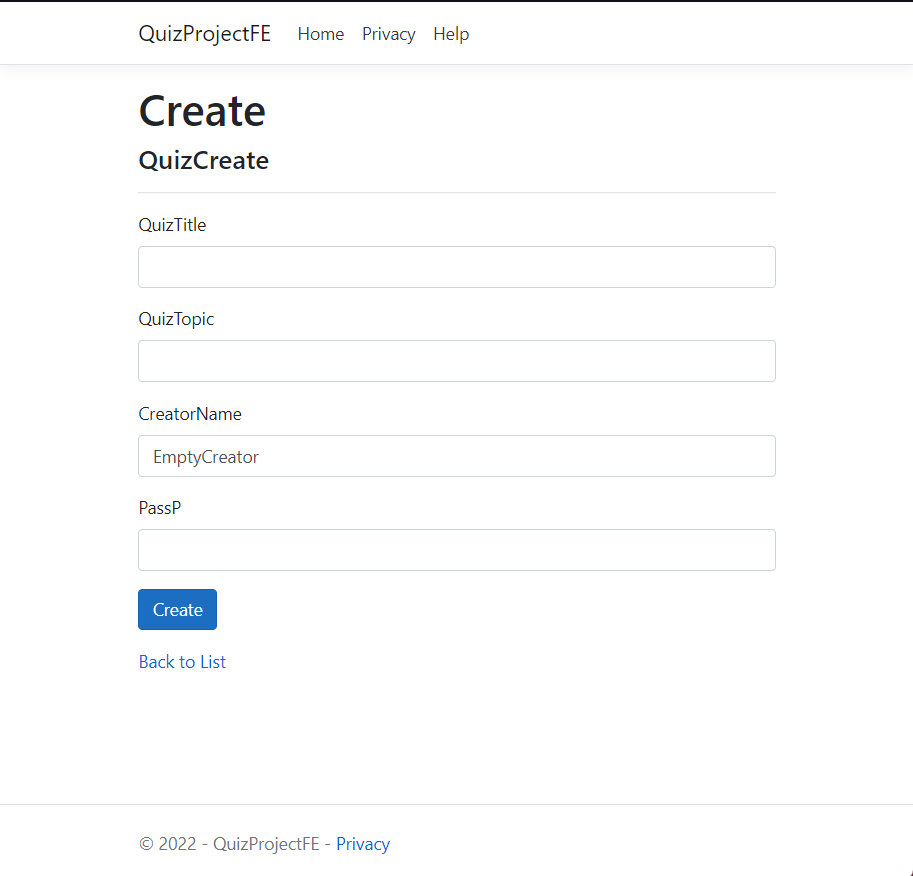
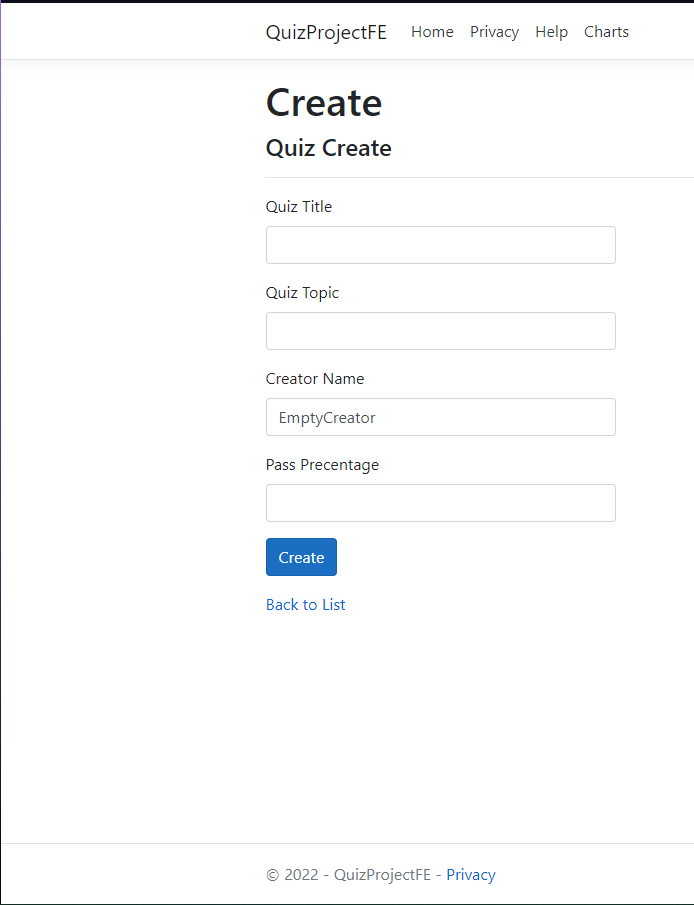
Final Touch ups

diff --git a/QuizProjectFE/Services/API_Request.cs b/QuizProjectFE/Services/API_Request.cs
@@ -8,7 +8,14 @@ namespace QuizProjectFE.Services
 {
     public class API_Request<T> : IApiRequest<T>
     {
-        //http client
+
+        ///<summary>
+        ///http client & contexy set up
+        ///</summary>
+        ///<param name="_client">Http client</param>
+        ///<param name="_context">Http context</param>
+        ///<returns>Gives client authorization </returns>
+        ///<created>Jordan, 20/06/22</created>
         private readonly HttpClient _client;
         private readonly HttpContext _context;
         public API_Request(IHttpClientFactory httpClientFactory, IHttpContextAccessor accessor)
@@ -21,7 +28,11 @@ namespace QuizProjectFE.Services
                 _client.DefaultRequestHeaders.Authorization = new AuthenticationHeaderValue("Bearer", _context.Session.GetString("Token"));
             }
         }
-        //get all
+        /// <summary>
+        /// Gets all of given controller name for example Quiz
+        /// </summary>
+        /// <param name="controllername"></param>
+        /// <returns>Returns all of (controller name) </returns>
         public List<T> GetAll(string controllername)
         {
             var response = _client.GetAsync(controllername).Result;
@@ -33,7 +44,12 @@ namespace QuizProjectFE.Services
 
             return thing;
         }
-        //get single
+        /// <summary>
+        /// get single entry of given controller name for example Quiz
+        /// </summary>
+        /// <param name="controllername"></param>
+        /// <param name="id"></param>
+        /// <returns>Single entry with matching id </returns>
         public T GetSingle(string controllername, int id)
         {
 
@@ -46,7 +62,12 @@ namespace QuizProjectFE.Services
             return thing;
 
         }
-        //create
+        /// <summary>
+        /// create a entry of given controller name for example Quiz
+        /// </summary>
+        /// <param name="controllername"></param>
+        /// <param name="entity"></param>
+        /// <returns>Creates a entry from given details</returns>
         public T Create(string controllername, T entity)
         {
             var response = _client.PostAsJsonAsync(controllername, entity).Result;

diff --git a/QuizProjectFE/Models/Quiz.cs b/QuizProjectFE/Models/Quiz.cs
@@ -1,19 +1,25 @@
 using System.Collections.Generic;
+using System.ComponentModel.DataAnnotations;
 
 namespace QuizProjectFE.Models
 {
     public class Quiz
     {
         // QuizID is used to collect the quiz entry and in the code is used to both collect the entry and make new entries 
+        [Display(Name="Quiz ID")]
         public int QuizId { get; set; }
         // QuizTitle is used similar to the QuizID and just like it used to create and collect but its done more in a bundle 
         // for example the database prevents the creation of entries without the ID and will auto generate one if missing
+        [Display(Name = "Quiz Title")]
         public string QuizTitle { get; set; }
         // QuizTopic is the exact same as Quiztitle 
+        [Display(Name = "Quiz Topic")]
         public string QuizTopic { get; set; }
         //// CreatorName is the exact same as QuizTopic 
+        [Display(Name = "Creator Name")]
         public string CreatorName { get; set; }
         //// PassP is the exact same as CreatorName 
+        [Display(Name = "Pass Precentage")]
         public float PassP { get; set; }
         //public ICollection<Question> Questions { get; set; }
     }

diff --git a/QuizProjectFE/Models/Option.cs b/QuizProjectFE/Models/Option.cs
@@ -1,11 +1,18 @@
-namespace QuizProjectFE.Models
+using System.ComponentModel.DataAnnotations;
+
+namespace QuizProjectFE.Models
 {
     public class Option
     {
+        [Display(Name = "Option ID")]
         public int OptionID { get; set; }
+        [Display(Name = "Option Text")]
         public string OptionText { get; set; }
+        [Display(Name = "Option Letter")]
         public string OptionLetter { get; set; }
+        [Display(Name = "Is Correct or Not")]
         public bool IsCorrect { get; set; }
+        [Display(Name = "Question ID")]
         public int QuestionId { get; set; }
         public Question Question { get; set; }
     }

diff --git a/QuizProjectFE/Models/Question.cs b/QuizProjectFE/Models/Question.cs
@@ -1,13 +1,19 @@
 using System.Collections.Generic;
+using System.ComponentModel.DataAnnotations;
 
 namespace QuizProjectFE.Models
 {
     public class Question
     {
+        [Display(Name = "Question ID")]
         public int QuestionId { get; set; }
+        [Display(Name = "Question Topic")]
         public string QuestionTopic { get; set; }
+        [Display(Name = "Question Text")]
         public string QuestionText { get; set; }
+        [Display(Name = "Question Image")]
         public string QuestionImg { get; set; }
+        [Display(Name = "Quiz ID")]
         public int QuizId { get; set; }
         public Quiz Quiz { get; set; }
 

diff --git a/QuizProjectFE/Models/UserStuff.cs b/QuizProjectFE/Models/UserStuff.cs
@@ -1,9 +1,12 @@
-namespace QuizProjectFE.Models
+using System.ComponentModel.DataAnnotations;
+
+namespace QuizProjectFE.Models
 {
     public class UserStuff
     {
         //public int UserStuffID { get; set; }
         public string UserName { get; set; }
+        [Display(Name = "Password")]
         public string UserPassword { get; set; }
     }
 }
